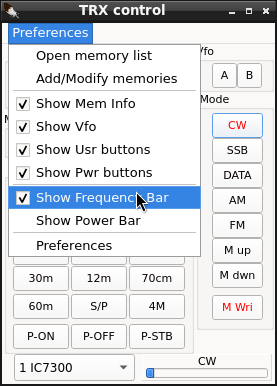
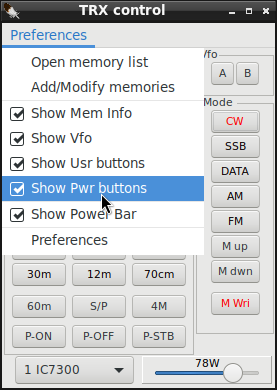
TRXControl:Remove: FreqBar that is useless. Now there is only RFPowerBar.(still need testing)

diff --git a/src/changelog.html b/src/changelog.html
@@ -12,6 +12,7 @@
     What is new:
     <ul style="list-style: square;text-align:left; color: green;" >
     <li>(135)</li><ul>
+    <li>TRXControl:Remove: FreqBar that is useless. Now there is only RFPowerBar. (still need testing)</li>
     <li>TRXControl:Add:RFPower bar changed to slider that can change rig power (if supported by Hamlib)</li>
     <li>TRXControl:Fix:Frequency/mode bar can now be RFpower bar aternatively</li> 
     <li>RigControl:Add:Second TCP connection to rigctld for commands.The first one handles now only rig polling.
